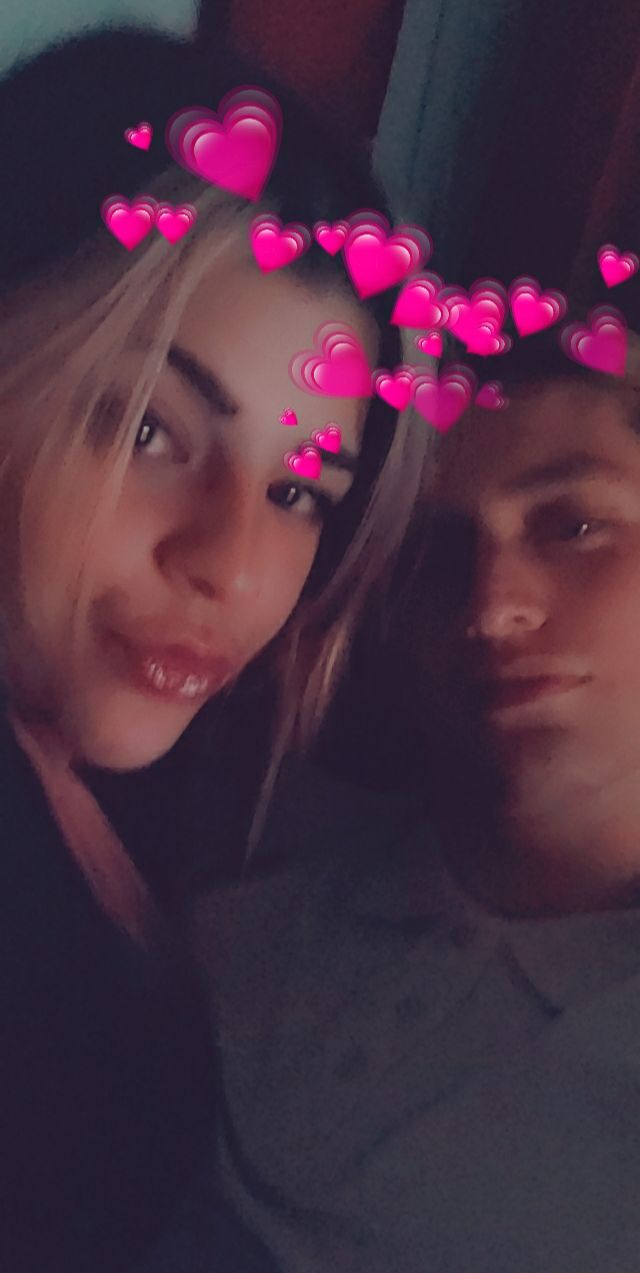
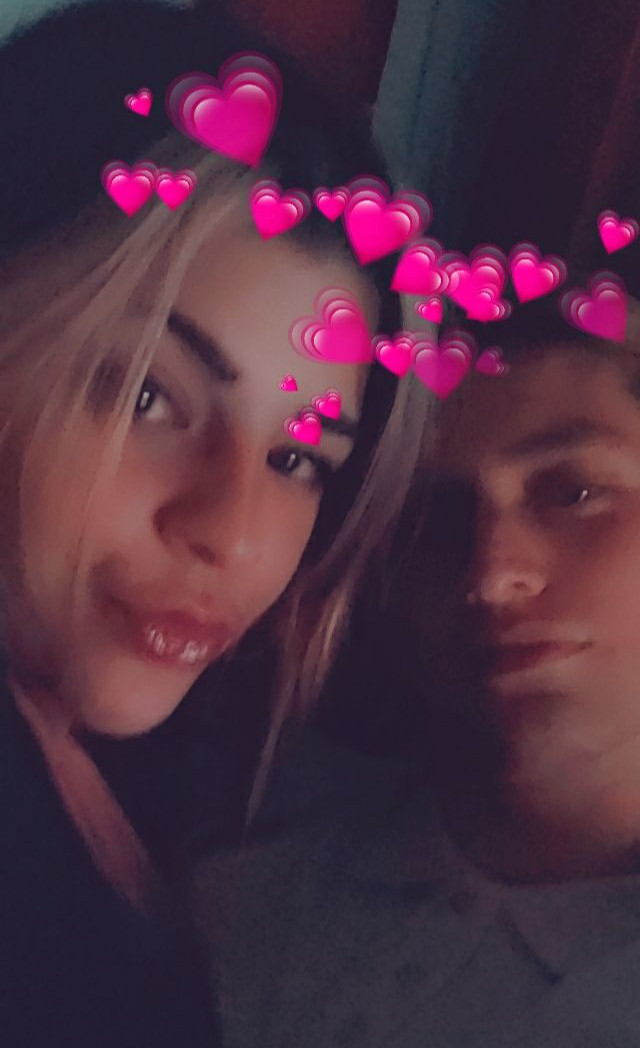
pic sizing

diff --git a/src/Carousel.js b/src/Carousel.js
@@ -16,40 +16,40 @@ const Carousel = () => {
         data-bs-ride="carousel"
       >
         <div className="carousel-inner">
-          <div className="carousel-item active" data-bs-interval="3000">
+          <div className="carousel-item text-center active" data-bs-interval="3000">
           <span className="text-white gx-0">
             <Mensajes />
             </span>
           </div>
-          <div className="carousel-item" data-bs-interval="2000">
+          <div className="carousel-item text-center" data-bs-interval="2000">
             <img
               src={one}
-              className="d-block w-100"
-              alt="https://picsum.photos/200"
+              className="d-block carousel_img"
+              alt="Jose y Marta"
             />
           </div>
-          <div className="carousel-item" data-bs-interval="2000">
+          <div className="carousel-item text-center" data-bs-interval="2000">
             <img
               src={two}
-              className="d-block w-100"
-              alt="https://picsum.photos/200"
+              className="d-block carousel_img "
+              alt="Jose y Marta"
             />
           </div>
-          <div className="carousel-item" data-bs-interval="2000">
+          <div className="carousel-item text-center" data-bs-interval="2000">
             <img
               src={three}
-              className="d-block w-100"
-              alt="https://picsum.photos/200"
+              className="d-block carousel_img"
+              alt="Jose y Marta"
             />
           </div>
-          <div className="carousel-item" data-bs-interval="2000">
+          <div className="carousel-item text-center" data-bs-interval="2000">
             <img
               src={four}
-              className="d-block w-100"
-              alt="https://picsum.photos/200"
+              className="d-block carousel_img"
+              alt="Jose y Marta"
             />
           </div>
-          <div className="carousel-item" data-bs-interval="20000">
+          <div className="carousel-item text-center" data-bs-interval="20000">
             <Gift/>
           </div>
         </div>

diff --git a/src/App.css b/src/App.css
@@ -44,6 +44,9 @@ flex-direction: column;
   font-size: 30pt;
 }
 
+.carousel_img{
+  max-width: 390px;
+}
 
 .heartbeat {
 	-webkit-animation: heartbeat 1.5s ease-in-out infinite both;
